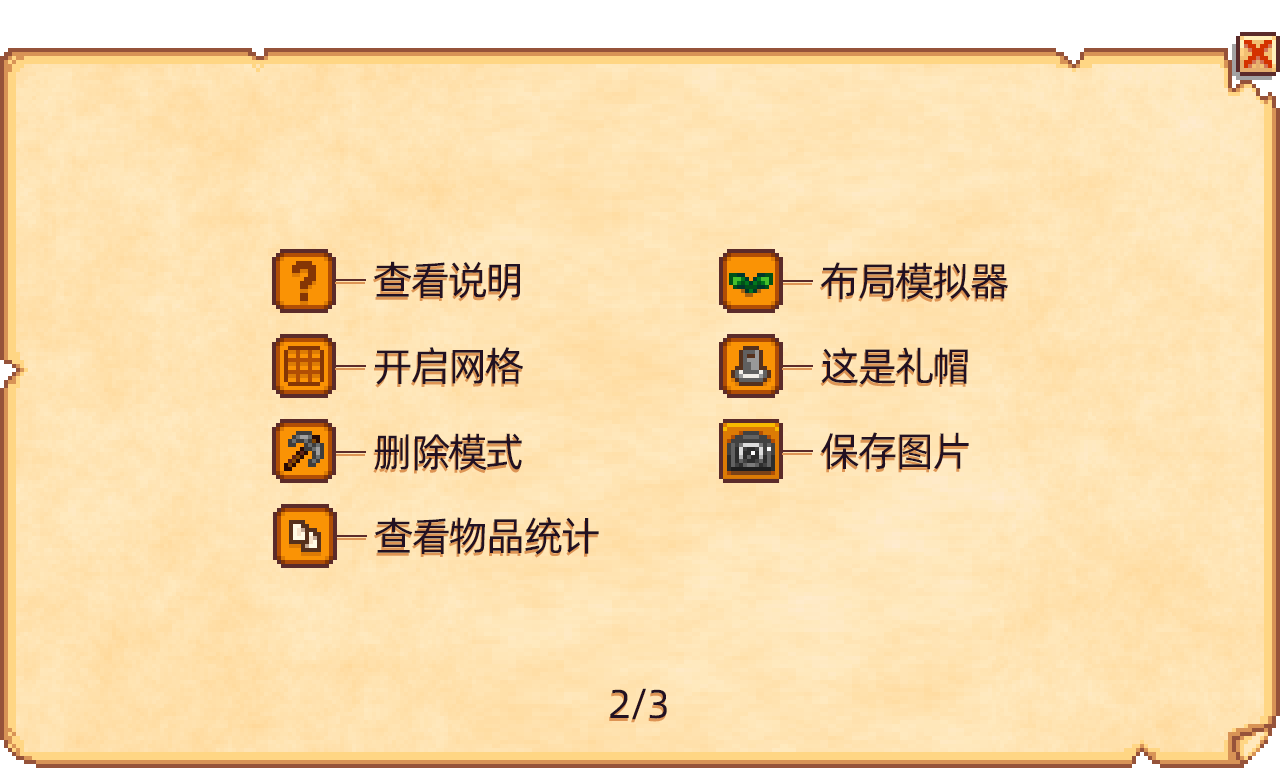
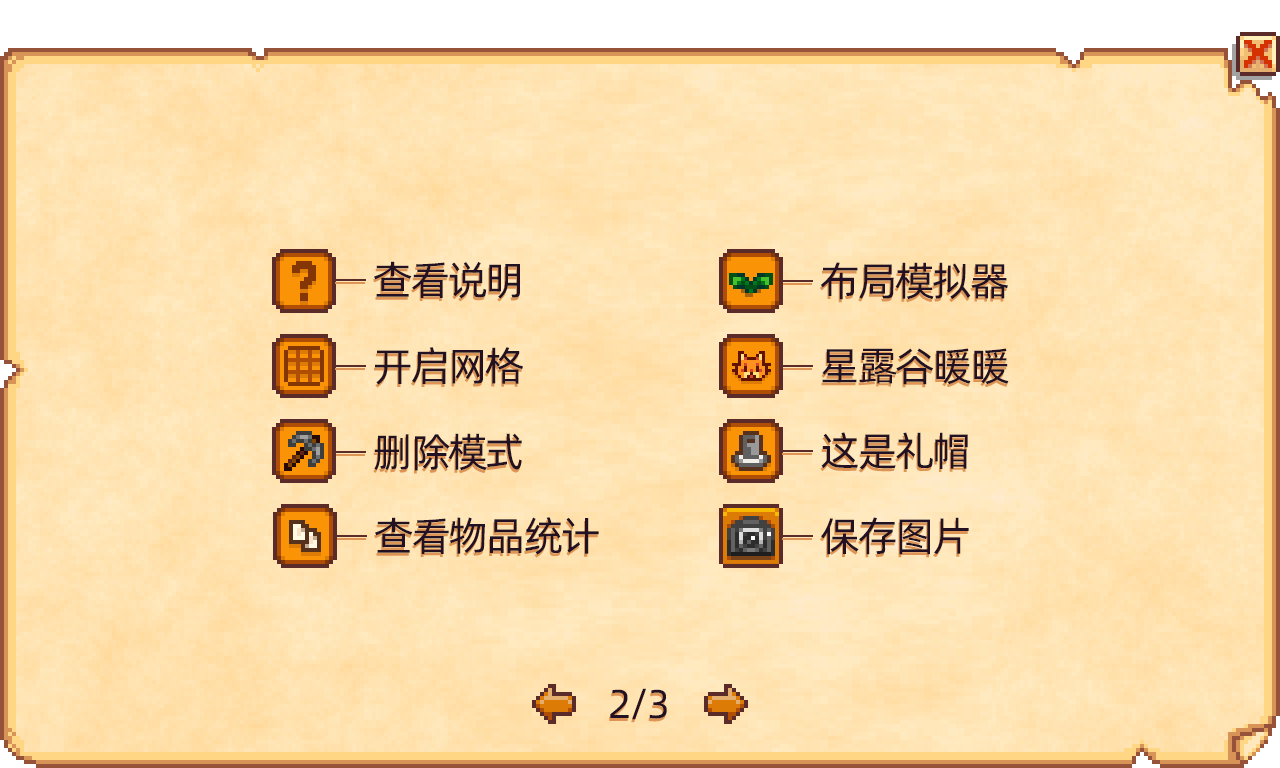
123

diff --git a/index.html b/index.html
@@ -114,6 +114,7 @@
 		<img src="imges/Pickaxe-1.png" alt="" onclick="Pickaxe();" id="Pickaxe">
 		<img src="imges/Statistics-btn.png" alt="" onclick="Statistics();" id="Range">
 		<img src="imges/Farm.png" alt="" onclick="Farm();" id="Range">
+		<img src="imges/nuannuan.png" alt="" onclick="nuannuan();">
 		<img src="imges/author.png" alt="" onclick="author();" id="Range">
 		<img src="imges/camera.png" alt="" onclick="screenshot();">
 	</div>
@@ -129,6 +130,10 @@
 				<img src="imges/2_2.png" alt="">
 			</id>
 		</div>
+	</div>
+	<div id="nuannuan">
+		<img src="imges/Explain/X.png" alt="" class="Course_content_X" onclick="nuannuan_X();">
+		<img src="imges/Explain/nuannuan.png" alt="">
 	</div>
 	<div id="author">
 		<img src="imges/Explain/X.png" alt="" class="Course_content_X" onclick="author_X();">

diff --git a/Valley.css b/Valley.css
@@ -868,7 +868,16 @@ img{
 	margin-left: -640px;
 	display: none;
 }
-
+#nuannuan{
+	width: 1280px;
+	height: 768px;
+	position: absolute;
+	z-index: 99;
+	top: 5%;
+	left: 50%;
+	margin-left: -640px;
+	display: none;
+}
 
 #rotate{
 	width: 7em;
@@ -1035,9 +1044,9 @@ img{
 }
 #warning{
 	width: 320px;
-	height: 176px;
+	height: 400px;
 	position: absolute;
-	top: 30%;
+	top: 20%;
 	left: 50%;
 	margin-left: -160px;
 	z-index: 1111;

diff --git a/Valley.js b/Valley.js
@@ -1681,3 +1681,9 @@ document.onkeydown=function(event){
 	    document.getElementById("Choice-1").style.display = "block"
 	}
 }; 
+function nuannuan() {
+	document.getElementById("nuannuan").style.display = "block";
+}
+function nuannuan_X() {//关闭作者联系方式
+	document.getElementById("nuannuan").style.display = "none";
+}
